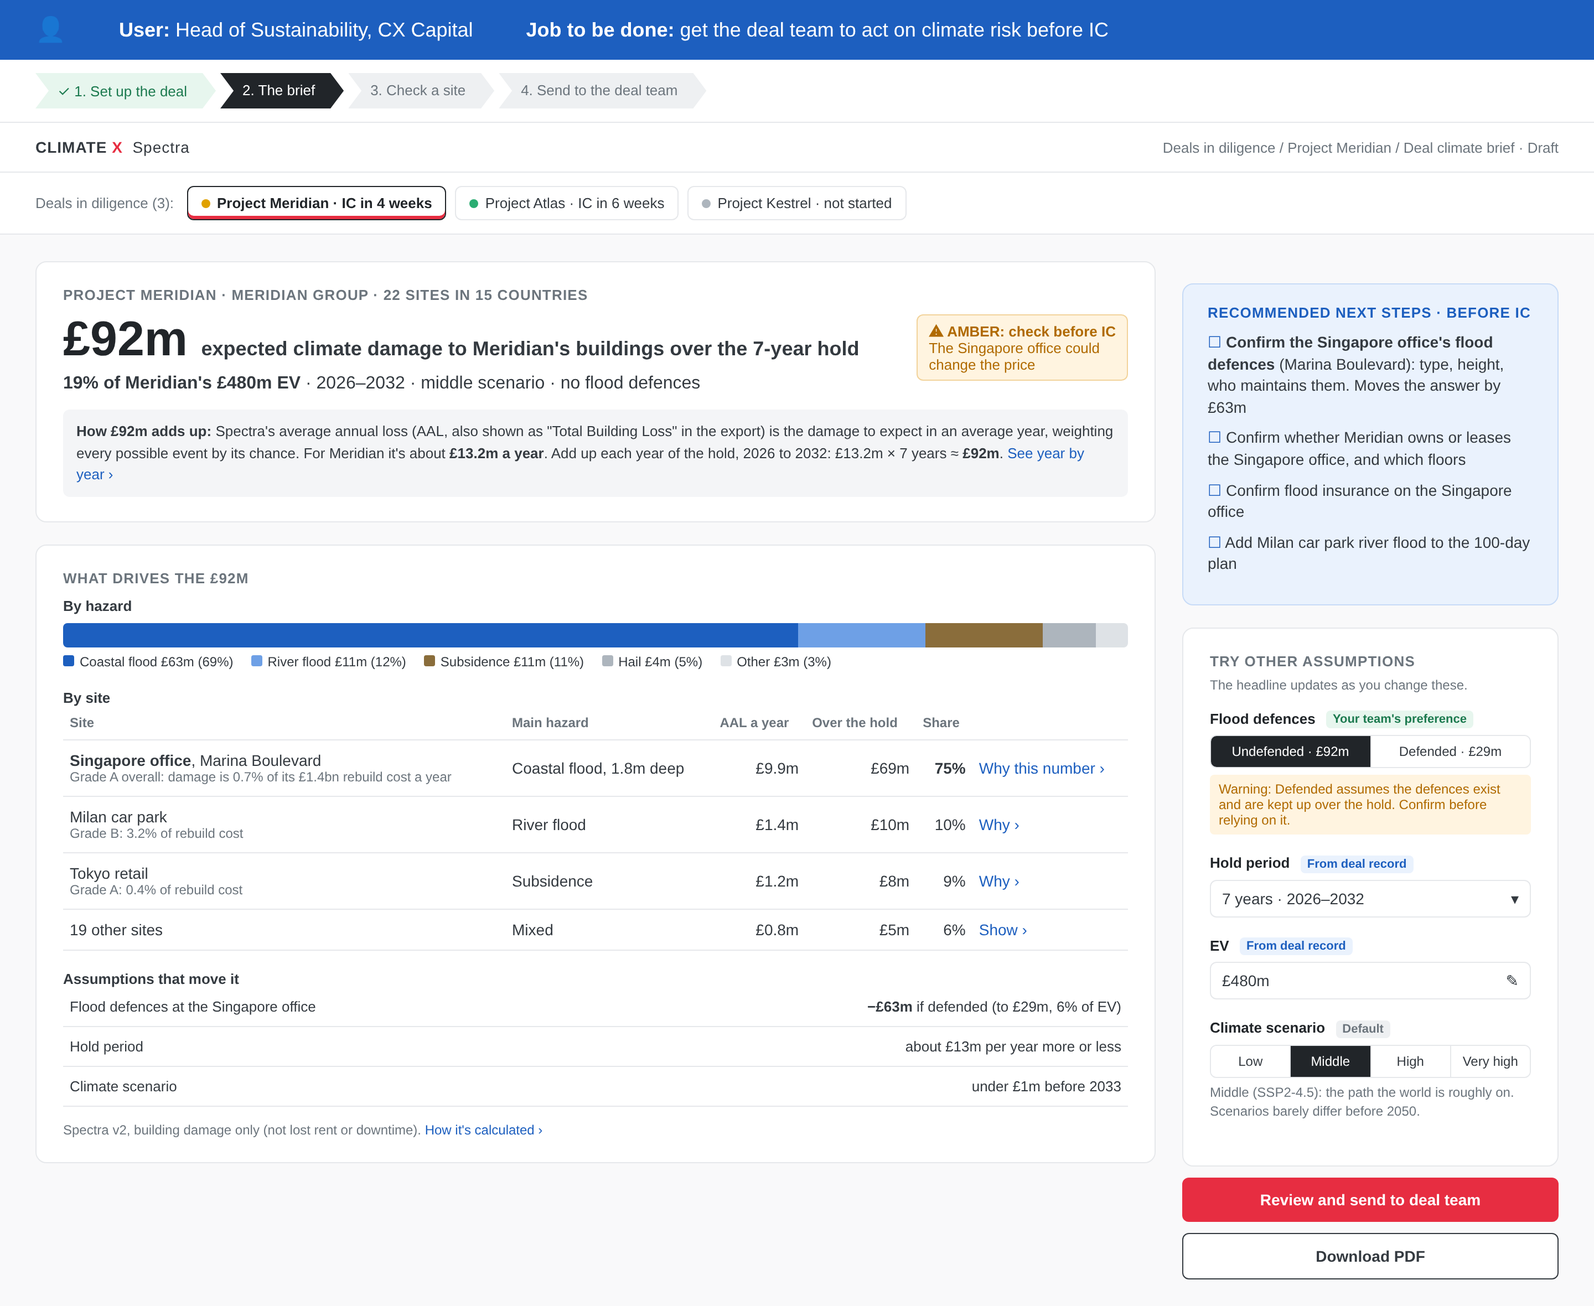
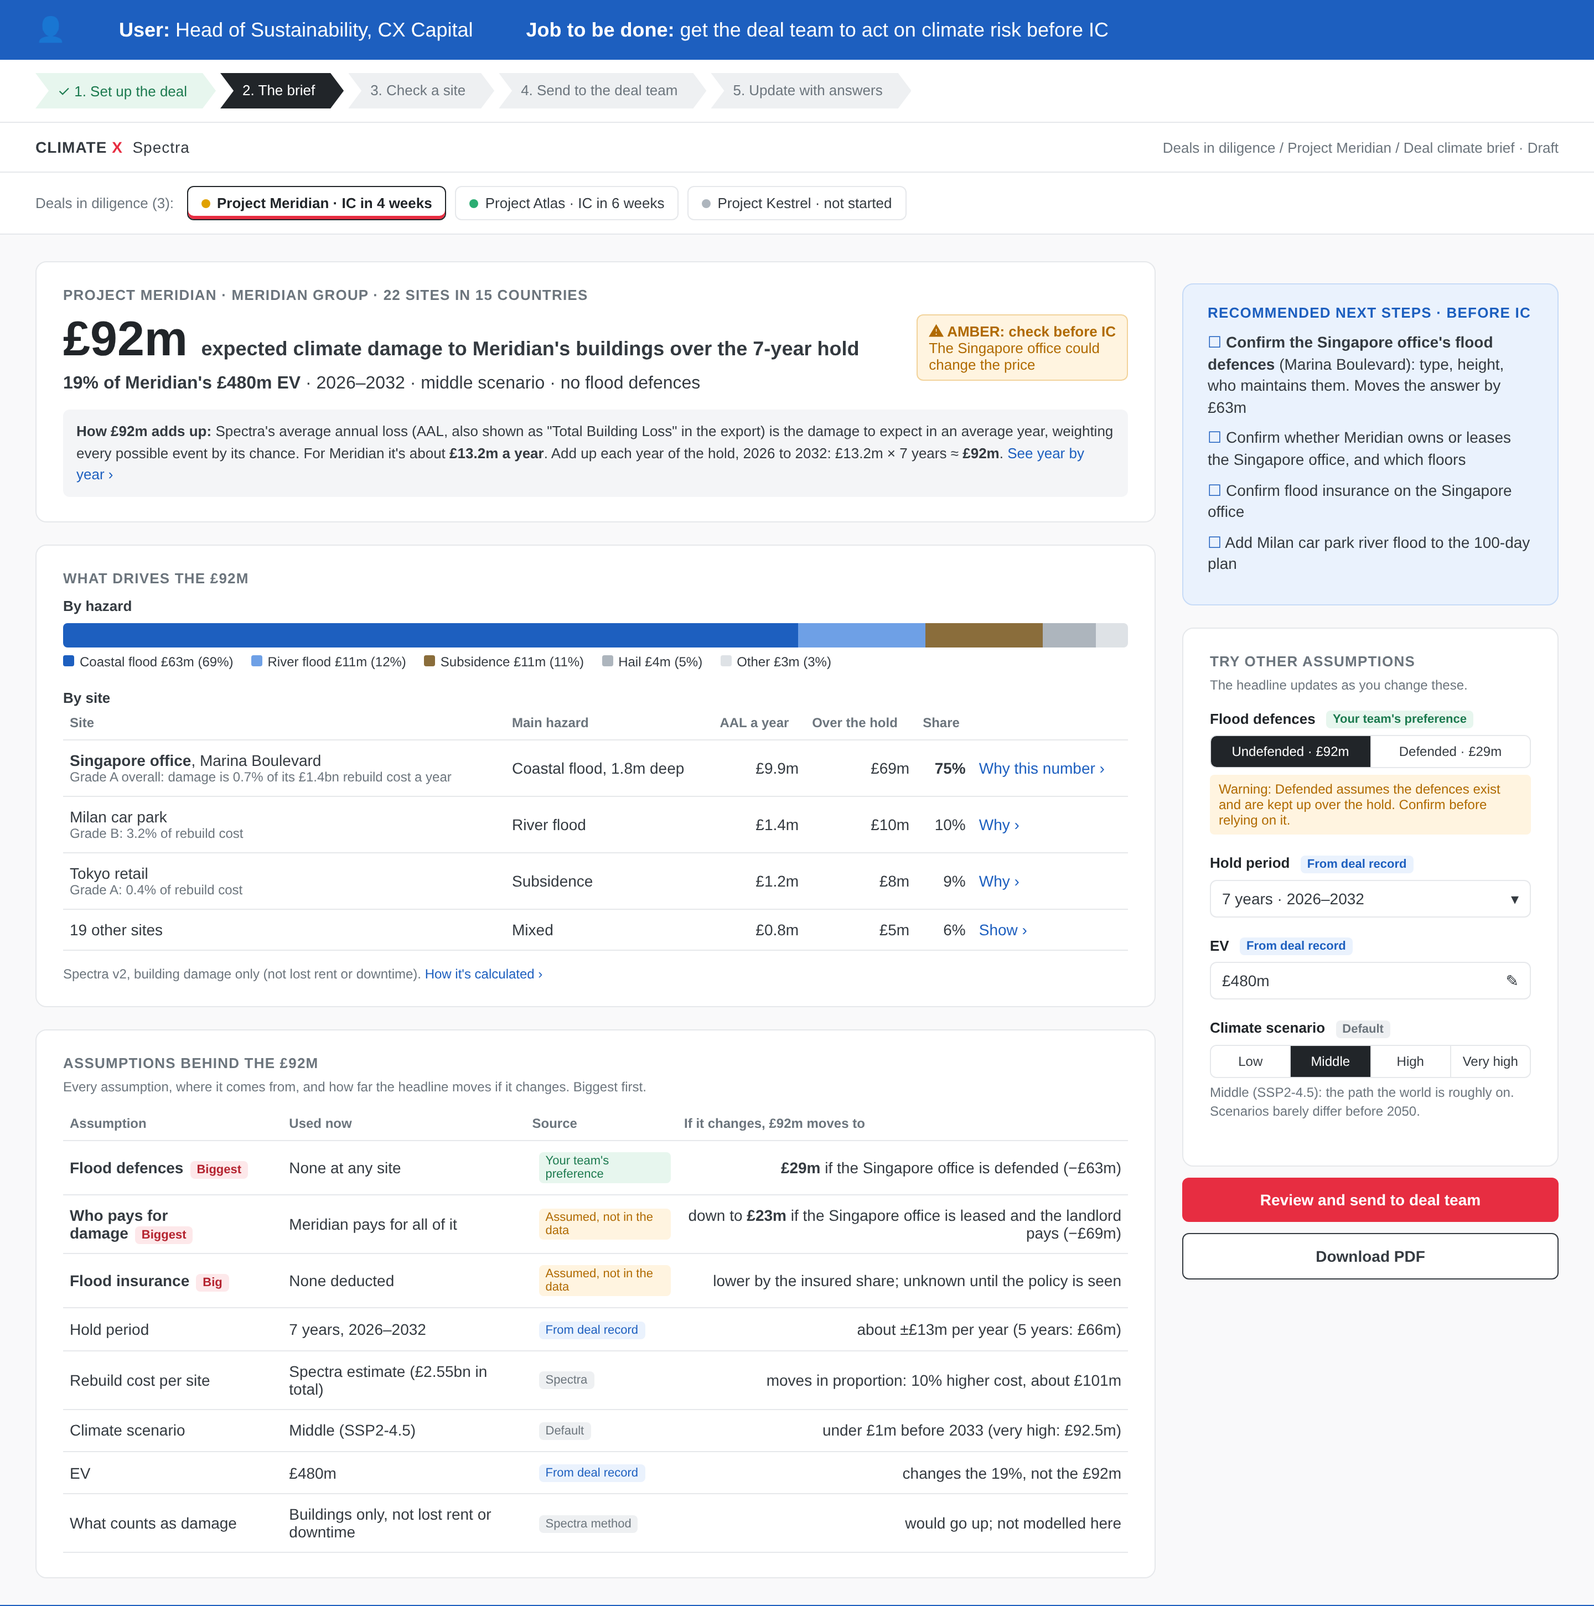
Run 4: all five design screens; assumptions panel; follow-up answers screen
Claude-Session: https://claude.ai/code/session_016JoguXTxkWcj5knaYbAtMZ

diff --git a/runs/run-4/design/screens.html b/runs/run-4/design/screens.html
@@ -53,19 +53,59 @@ a{color:var(--blue);text-decoration:none}.foot{font-size:12px;color:var(--mute);
 .stack div{height:100%}.legend{display:flex;flex-wrap:wrap;gap:6px 16px;font-size:12px}
 .legend span:before{content:"";display:inline-block;width:10px;height:10px;border-radius:2px;margin-right:5px;background:var(--c)}
 .moves td{font-size:13px}
+.flag{background:#fde8ea;color:#b4232f;font-size:11px;padding:2px 6px;border-radius:4px;font-weight:600;margin-left:6px}
+.t-ans{background:#e7f6ee;color:#1c7a4f}.t-assume{background:#fff4e0;color:var(--amber)}
+.grid2{display:grid;grid-template-columns:1fr 1fr;gap:20px}.kv td:first-child{color:var(--mute);width:42%}
+.note{background:#fff4e0;border-left:3px solid #e0a100;padding:10px 14px;border-radius:4px;font-size:13px;margin-top:12px}
+.ok{background:var(--green-bg);border-left:3px solid var(--jade);padding:10px 14px;border-radius:4px;font-size:13px;margin-top:12px}
+.drop{border:2px dashed #c7cdd4;border-radius:8px;padding:18px;text-align:center;color:var(--mute);font-size:13px;margin-top:10px}
+.mail{border:1px solid var(--line);border-radius:8px;padding:18px 20px;font-size:14px;line-height:1.55;background:#fff}
+.chg td.old{color:var(--mute);text-decoration:line-through}.up{color:#1c7a4f;font-weight:600}
+.map{height:150px;border-radius:8px;background:linear-gradient(135deg,#dbe8f5,#c2d8ee 60%,#e9eef3);position:relative;font-size:12px;color:var(--blue)}
+.pin{position:absolute;left:55%;top:40%;background:var(--red);color:#fff;border-radius:12px;padding:3px 8px;font-size:11px}
 </style></head><body>
 
+<div class="screen" data-screen="1-setup">
+  <div class="ribbon"><span class="ic">👤</span><span><b>User:</b> Head of Sustainability, CX Capital</span><span><b>Job to be done:</b> get the deal team to act on climate risk before IC</span></div>
+  <div class="steps"><div class="step on">1. Set up the deal</div><div class="step ">2. The brief</div><div class="step ">3. Check a site</div><div class="step ">4. Send to the deal team</div><div class="step ">5. Update with answers</div></div>
+  <div class="app"><div class="logo">CLIMATE <span>X</span> &nbsp;<span style="color:var(--g6);font-weight:400">Spectra</span></div><div class="crumb">Deals in diligence / Project Meridian / Set up the deal</div></div>
+  <div class="deals"><span style="color:var(--mute);margin-right:4px">Deals in diligence (3):</span>
+    <div class="deal on"><span class="dot" style="background:#e0a100"></span>Project Meridian · IC in 4 weeks</div>
+    <div class="deal"><span class="dot" style="background:var(--jade)"></span>Project Atlas · IC in 6 weeks</div>
+    <div class="deal"><span class="dot" style="background:#adb5bd"></span>Project Kestrel · not started</div>
+  </div>
+<div class="wrap" style="grid-template-columns:1fr 400px">
+ <div class="panel">
+  <h1>Set up the brief for Project Meridian</h1>
+  <div style="font-size:22px;font-weight:700;color:var(--g7);margin:4px 0 4px">22 of 22 sites found in Spectra ✓</div>
+  <div class="hint">Matched from the site list the deal team shared. Check the deal details below; they turn £ a year into £ over the hold and a share of the price.</div>
+  <table class="kv" style="margin-top:16px">
+   <tr><td>EV (price of the whole company, incl. debt)</td><td><b>£480m</b> <span class="tag t-deal">From deal record</span> <a href="#">Edit</a></td></tr>
+   <tr><td>Hold period</td><td><b>7 years, 2026–2032</b> <span class="tag t-deal">From deal record</span> <a href="#">Edit</a></td></tr>
+   <tr><td>IC date</td><td><b>3 Dec 2026</b> (in 4 weeks) <span class="tag t-deal">From deal record</span></td></tr>
+   <tr><td>Flood defences</td><td><b>Undefended</b> <span class="tag t-pref">Your team's preference</span> <a href="#">Change</a></td></tr>
+   <tr><td>Climate scenario</td><td><b>Middle (SSP2-4.5)</b> <span class="tag t-def">Default</span> <a href="#">Change</a></td></tr>
+  </table>
+  <div class="note"><b>Warning: 3 sites have no street address</b> (1 in Hong Kong, 2 in Brazil). They're placed by map coordinates. <a href="#">Check them</a> or carry on; together they're under 1% of the risk.</div>
+ </div>
+ <div>
+  <div class="panel"><h1>Sites by country</h1>
+   <table><tr><td>United Kingdom, Singapore, United States</td><td class="n">3 each</td></tr><tr><td>Australia, South Africa, Brazil</td><td class="n">2 each</td></tr><tr><td>9 other countries</td><td class="n">1 each</td></tr></table>
+   <div class="foot">Offices, car parks, retail, homes, a factory and a transport site.</div></div>
+  <div class="btn primary">Create the brief</div>
+ </div>
+</div>
+</div>
 <div class="screen" data-screen="2-brief">
   <div class="ribbon"><span class="ic">👤</span><span><b>User:</b> Head of Sustainability, CX Capital</span><span><b>Job to be done:</b> get the deal team to act on climate risk before IC</span></div>
-  <div class="steps"><div class="step done">✓ 1. Set up the deal</div><div class="step on">2. The brief</div><div class="step">3. Check a site</div><div class="step">4. Send to the deal team</div></div>
+  <div class="steps"><div class="step done">✓ 1. Set up the deal</div><div class="step on">2. The brief</div><div class="step ">3. Check a site</div><div class="step ">4. Send to the deal team</div><div class="step ">5. Update with answers</div></div>
   <div class="app"><div class="logo">CLIMATE <span>X</span> &nbsp;<span style="color:var(--g6);font-weight:400">Spectra</span></div><div class="crumb">Deals in diligence / Project Meridian / Deal climate brief · Draft</div></div>
   <div class="deals"><span style="color:var(--mute);margin-right:4px">Deals in diligence (3):</span>
     <div class="deal on"><span class="dot" style="background:#e0a100"></span>Project Meridian · IC in 4 weeks</div>
     <div class="deal"><span class="dot" style="background:var(--jade)"></span>Project Atlas · IC in 6 weeks</div>
     <div class="deal"><span class="dot" style="background:#adb5bd"></span>Project Kestrel · not started</div>
   </div>
-
-  <div class="wrap">
+<div class="wrap">
     <div>
       <div class="panel">
         <h1>Project Meridian · Meridian Group · 22 sites in 15 countries</h1>
@@ -92,16 +132,25 @@ a{color:var(--blue);text-decoration:none}.foot{font-size:12px;color:var(--mute);
           <tr><td>Tokyo retail<div class="grade">Grade A: 0.4% of rebuild cost</div></td><td>Subsidence</td><td class="n">£1.2m</td><td class="n">£8m</td><td class="n">9%</td><td><a href="#">Why ›</a></td></tr>
           <tr><td>19 other sites</td><td>Mixed</td><td class="n">£0.8m</td><td class="n">£5m</td><td class="n">6%</td><td><a href="#">Show ›</a></td></tr>
         </table>
-        <div style="font-size:13px;font-weight:600;margin-top:18px">Assumptions that move it</div>
-        <table class="moves">
-          <tr><td>Flood defences at the Singapore office</td><td class="n"><b>−£63m</b> if defended (to £29m, 6% of EV)</td></tr>
-          <tr><td>Hold period</td><td class="n">about £13m per year more or less</td></tr>
-          <tr><td>Climate scenario</td><td class="n">under £1m before 2033</td></tr>
-        </table>
         <div class="foot">Spectra v2, building damage only (not lost rent or downtime). <a href="#">How it's calculated ›</a></div>
       </div>
+    
+      <div class="panel" style="margin-top:20px">
+        <h1>Assumptions behind the £92m</h1>
+        <div class="hint" style="margin:-4px 0 10px">Every assumption, where it comes from, and how far the headline moves if it changes. Biggest first.</div>
+        <table>
+          <tr><th>Assumption</th><th>Used now</th><th>Source</th><th class="n">If it changes, £92m moves to</th></tr>
+          <tr><td><b>Flood defences</b><span class="flag">Biggest</span></td><td>None at any site</td><td><span class="tag t-pref">Your team's preference</span></td><td class="n"><b>£29m</b> if the Singapore office is defended (−£63m)</td></tr>
+          <tr><td><b>Who pays for damage</b><span class="flag">Biggest</span></td><td>Meridian pays for all of it</td><td><span class="tag t-assume">Assumed, not in the data</span></td><td class="n">down to <b>£23m</b> if the Singapore office is leased and the landlord pays (−£69m)</td></tr>
+          <tr><td><b>Flood insurance</b><span class="flag">Big</span></td><td>None deducted</td><td><span class="tag t-assume">Assumed, not in the data</span></td><td class="n">lower by the insured share; unknown until the policy is seen</td></tr>
+          <tr><td>Hold period</td><td>7 years, 2026–2032</td><td><span class="tag t-deal">From deal record</span></td><td class="n">about ±£13m per year (5 years: £66m)</td></tr>
+          <tr><td>Rebuild cost per site</td><td>Spectra estimate (£2.55bn in total)</td><td><span class="tag t-def">Spectra</span></td><td class="n">moves in proportion: 10% higher cost, about £101m</td></tr>
+          <tr><td>Climate scenario</td><td>Middle (SSP2-4.5)</td><td><span class="tag t-def">Default</span></td><td class="n">under £1m before 2033 (very high: £92.5m)</td></tr>
+          <tr><td>EV</td><td>£480m</td><td><span class="tag t-deal">From deal record</span></td><td class="n">changes the 19%, not the £92m</td></tr>
+          <tr><td>What counts as damage</td><td>Buildings only, not lost rent or downtime</td><td><span class="tag t-def">Spectra method</span></td><td class="n">would go up; not modelled here</td></tr>
+        </table>
+      </div>
     </div>
-
     <div>
       <div class="next">
         <h1>Recommended next steps · before IC</h1>
@@ -128,5 +177,125 @@ a{color:var(--blue);text-decoration:none}.foot{font-size:12px;color:var(--mute);
       <div class="btn secondary">Download PDF</div>
     </div>
   </div>
+
+</div>
+<div class="screen" data-screen="3-site">
+  <div class="ribbon"><span class="ic">👤</span><span><b>User:</b> Head of Sustainability, CX Capital</span><span><b>Job to be done:</b> get the deal team to act on climate risk before IC</span></div>
+  <div class="steps"><div class="step done">✓ 1. Set up the deal</div><div class="step done">✓ 2. The brief</div><div class="step on">3. Check a site</div><div class="step ">4. Send to the deal team</div><div class="step ">5. Update with answers</div></div>
+  <div class="app"><div class="logo">CLIMATE <span>X</span> &nbsp;<span style="color:var(--g6);font-weight:400">Spectra</span></div><div class="crumb">Deals in diligence / Project Meridian / Deal climate brief / Singapore office</div></div>
+  <div class="deals"><span style="color:var(--mute);margin-right:4px">Deals in diligence (3):</span>
+    <div class="deal on"><span class="dot" style="background:#e0a100"></span>Project Meridian · IC in 4 weeks</div>
+    <div class="deal"><span class="dot" style="background:var(--jade)"></span>Project Atlas · IC in 6 weeks</div>
+    <div class="deal"><span class="dot" style="background:#adb5bd"></span>Project Kestrel · not started</div>
+  </div>
+<div class="wrap">
+ <div>
+  <div class="panel">
+   <h1>Singapore office · Marina Boulevard · one of Meridian's 22 sites</h1>
+   <div class="big">£9.9m <small>average annual loss (AAL), 75% of Meridian's total</small></div>
+   <div class="sub">£69m over the 7-year hold · <b>£0.8m a year if defended</b> (coastal flood removed)</div>
+   <div class="why"><b>Why:</b> the model floods the site with sea water up to <b>1.84m deep</b> (range 1.78–1.90m) because it treats the coast as <b>undefended</b>. The tower is large: £1.4bn to rebuild, 35 floors, so even a small share of damage is a big £ figure.</div>
+   <div class="grid2" style="margin-top:16px">
+    <table><tr><th>Hazard at this site</th><th>Grade</th><th class="n">AAL a year</th></tr>
+     <tr><td>Coastal flood</td><td>F</td><td class="n"><b>£9.1m</b></td></tr>
+     <tr><td>Hail</td><td>E</td><td class="n">£0.6m</td></tr>
+     <tr><td>Surface water flood</td><td>E</td><td class="n">£0.2m</td></tr>
+     <tr><td>8 other hazards</td><td>A</td><td class="n">£0</td></tr></table>
+    <div><div class="map"><span style="position:absolute;left:10px;top:8px">Marina Bay, Singapore</span><span class="pin">Marina Boulevard</span></div>
+     <div class="hint">Why the overall grade is A: grades rank damage as a share of rebuild cost (0.7% a year here), not in £.</div></div>
+   </div>
+  </div>
+  <div class="panel" style="margin-top:20px"><h1>What would change this number</h1>
+   <table><tr><th>If…</th><th class="n">AAL a year</th><th class="n">Over the hold</th></tr>
+    <tr><td>Flood defences protect the site</td><td class="n">£0.8m</td><td class="n">£6m</td></tr>
+    <tr><td>Meridian leases it and the landlord pays for damage</td><td class="n">£0</td><td class="n">£0</td></tr>
+    <tr><td>Flood insurance covers it</td><td class="n" colspan="2">depends on the policy: upload it in step 5</td></tr></table>
+   <div class="foot">How Spectra models coastal flood: sea level, storm surge and the ground height at the site, checked against past floods. <a href="#">Method and accuracy ›</a></div>
+  </div>
+ </div>
+ <div>
+  <div class="next"><h1>Questions for the deal team</h1><ul>
+   <li><b>Is Marina Boulevard protected by flood defences?</b> Type, height, who maintains them</li>
+   <li>Does Meridian own or lease the office, and which floors?</li>
+   <li>Is it insured for flood? Please share the policy</li></ul></div>
+  <div class="btn primary">Add questions to the brief</div>
+  <div class="btn secondary">Back to the brief</div>
+ </div>
+</div>
+</div>
+<div class="screen" data-screen="4-send">
+  <div class="ribbon"><span class="ic">👤</span><span><b>User:</b> Head of Sustainability, CX Capital</span><span><b>Job to be done:</b> get the deal team to act on climate risk before IC</span></div>
+  <div class="steps"><div class="step done">✓ 1. Set up the deal</div><div class="step done">✓ 2. The brief</div><div class="step done">✓ 3. Check a site</div><div class="step on">4. Send to the deal team</div><div class="step ">5. Update with answers</div></div>
+  <div class="app"><div class="logo">CLIMATE <span>X</span> &nbsp;<span style="color:var(--g6);font-weight:400">Spectra</span></div><div class="crumb">Deals in diligence / Project Meridian / Send to the deal team</div></div>
+  <div class="deals"><span style="color:var(--mute);margin-right:4px">Deals in diligence (3):</span>
+    <div class="deal on"><span class="dot" style="background:#e0a100"></span>Project Meridian · IC in 4 weeks</div>
+    <div class="deal"><span class="dot" style="background:var(--jade)"></span>Project Atlas · IC in 6 weeks</div>
+    <div class="deal"><span class="dot" style="background:#adb5bd"></span>Project Kestrel · not started</div>
+  </div>
+<div class="wrap">
+ <div>
+  <div class="panel"><h1>Message to the deal team · drafted for you, edit before sending</h1>
+   <table class="kv"><tr><td>To</td><td>Meridian deal lead; Meridian deal team</td></tr><tr><td>Subject</td><td>Project Meridian: climate risk for IC, one site to check</td></tr></table>
+   <div class="mail" style="margin-top:12px">
+    <b>Amber: check before IC.</b> Meridian's buildings face about <b>£92m of climate damage over the 7-year hold (19% of the £480m EV)</b>.<br><br>
+    75% comes from one site, the Singapore office on Marina Boulevard, from coastal flooding. That figure assumes no flood defences. If the site is defended it falls to <b>£29m (6% of EV)</b>.<br><br>
+    Before IC, could you confirm three things about the Singapore office:<br>
+    1. Its flood defences &nbsp; 2. Owned or leased, and which floors &nbsp; 3. Its flood insurance (please share the policy)<br><br>
+    The one-page brief is attached, with every number and the assumption behind it.
+   </div>
+   <div class="hint">Wording drafted from the brief's numbers. Every number in it comes from the brief.</div>
+  </div>
+ </div>
+ <div>
+  <div class="panel"><h1>What gets sent</h1>
+   <table class="kv"><tr><td>Attachment</td><td>Meridian climate brief.pdf (1 page)</td></tr>
+    <tr><td>Status</td><td><span class="rag" style="padding:2px 6px">⚠ Amber</span> <a href="#">Change</a></td></tr>
+    <tr><td>Open questions</td><td>3, tracked in step 5</td></tr></table>
+   <div class="ok">✓ Every number matches the brief. No question is left without an owner.</div>
+  </div>
+  <div class="btn primary">Send to the deal team</div>
+  <div class="btn secondary">Back to the brief</div>
+ </div>
+</div>
+</div>
+<div class="screen" data-screen="5-answers">
+  <div class="ribbon"><span class="ic">👤</span><span><b>User:</b> Head of Sustainability, CX Capital</span><span><b>Job to be done:</b> get the deal team to act on climate risk before IC</span></div>
+  <div class="steps"><div class="step done">✓ 1. Set up the deal</div><div class="step done">✓ 2. The brief</div><div class="step done">✓ 3. Check a site</div><div class="step done">✓ 4. Send to the deal team</div><div class="step on">5. Update with answers</div></div>
+  <div class="app"><div class="logo">CLIMATE <span>X</span> &nbsp;<span style="color:var(--g6);font-weight:400">Spectra</span></div><div class="crumb">Deals in diligence / Project Meridian / Answers from the deal team</div></div>
+  <div class="deals"><span style="color:var(--mute);margin-right:4px">Deals in diligence (3):</span>
+    <div class="deal on"><span class="dot" style="background:#e0a100"></span>Project Meridian · IC in 4 weeks</div>
+    <div class="deal"><span class="dot" style="background:var(--jade)"></span>Project Atlas · IC in 6 weeks</div>
+    <div class="deal"><span class="dot" style="background:#adb5bd"></span>Project Kestrel · not started</div>
+  </div>
+<div class="wrap">
+ <div>
+  <div class="panel"><h1>Answers from the deal team · 1 of 3 answered</h1>
+   <table><tr><th>Question</th><th>Answer</th><th>Status</th></tr>
+    <tr><td>Is Marina Boulevard protected by flood defences?</td><td>—</td><td><span class="tag t-assume">Waiting</span></td></tr>
+    <tr><td>Does Meridian own or lease the office?</td><td>—</td><td><span class="tag t-assume">Waiting</span></td></tr>
+    <tr><td><b>Is it insured for flood?</b></td><td>SG_office_flood_policy.pdf</td><td><span class="tag t-ans">✓ Answered, check below</span></td></tr></table>
+   <div class="drop">Drop a document here and pick the question it answers · PDF, Word or Excel</div>
+  </div>
+  <div class="panel" style="margin-top:20px"><h1>What the policy says · read from the document, check before applying</h1>
+   <table class="kv"><tr><td>Covers flood</td><td><b>Yes</b>, including coastal flood <a href="#">page 4 ›</a></td></tr>
+    <tr><td>Limit per event</td><td><b>£50m</b> <a href="#">page 6 ›</a></td></tr>
+    <tr><td>Excess Meridian pays per event</td><td><b>£1m</b> <a href="#">page 6 ›</a></td></tr>
+    <tr><td>Valid until</td><td><b>31 Mar 2028</b>: covers 2 of the 7 hold years <a href="#">page 1 ›</a></td></tr></table>
+   <div class="note"><b>Warning:</b> the policy ends in March 2028. After that the brief assumes no insurance unless you change it.</div>
+  </div>
+ </div>
+ <div>
+  <div class="panel"><h1>What changes if you apply it</h1>
+   <table class="chg"><tr><th>Number</th><th class="n">Before</th><th class="n">After</th></tr>
+    <tr><td>Damage over the hold</td><td class="n old">£92m</td><td class="n up">£77m</td></tr>
+    <tr><td>Share of EV</td><td class="n old">19%</td><td class="n up">16%</td></tr>
+    <tr><td>Singapore office, over the hold</td><td class="n old">£69m</td><td class="n up">£54m</td></tr>
+    <tr><td>Status</td><td class="n">Amber</td><td class="n">Amber</td></tr></table>
+   <div class="hint" style="margin-top:10px"><b>Why:</b> the insurer pays coastal flood damage above the £1m excess until March 2028, so Meridian bears less in 2026–2027. From April 2028 nothing changes.</div>
+  </div>
+  <div class="btn primary">Apply and update the brief</div>
+  <div class="btn secondary">Not this question: pick another</div>
+ </div>
+</div>
 </div>
 </body></html>
